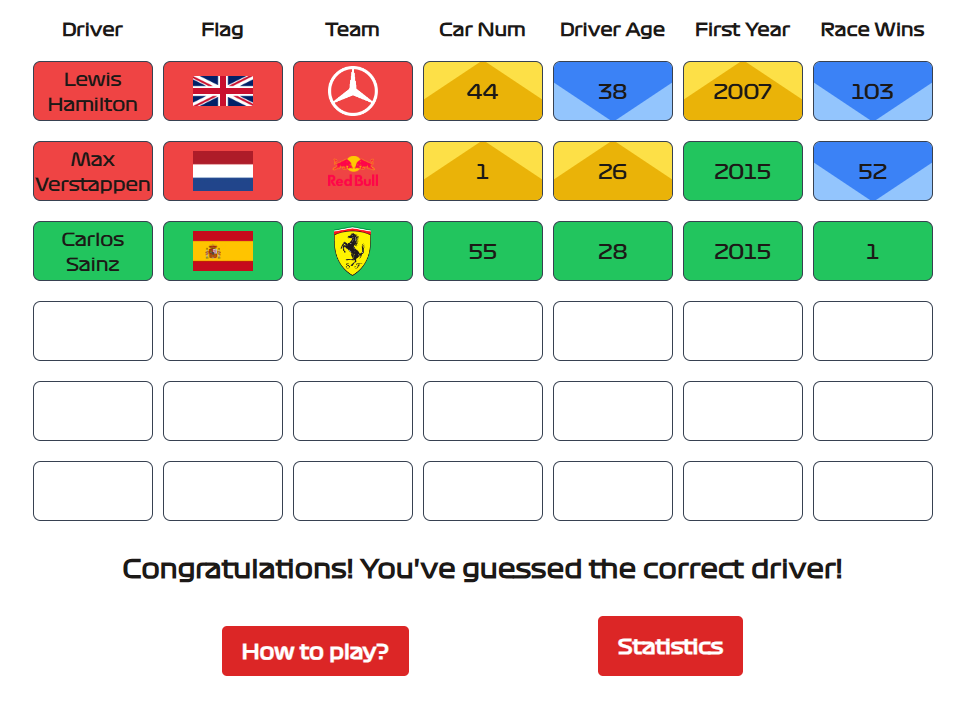
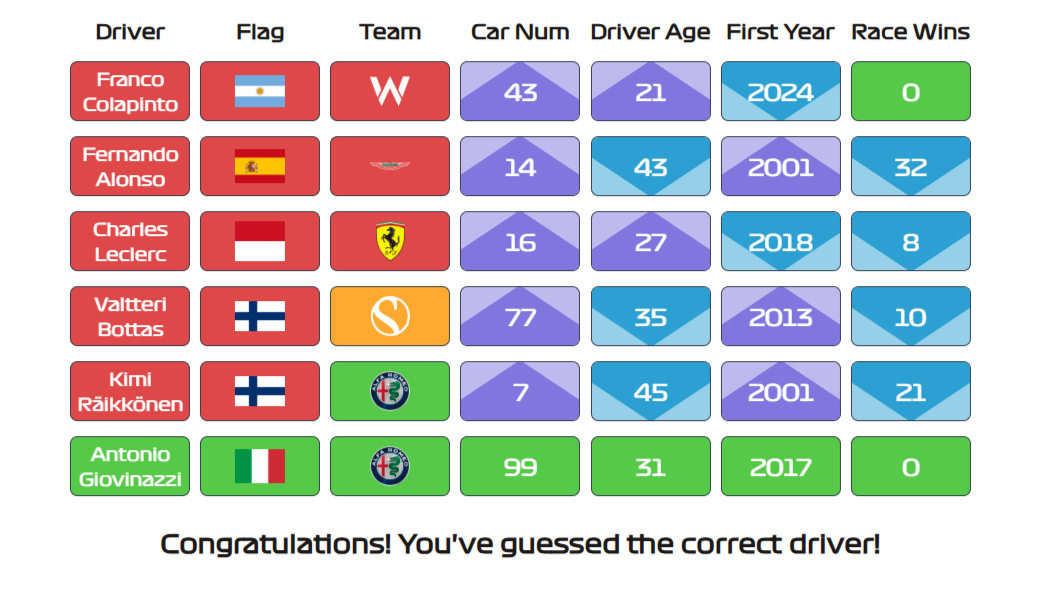
✨ Implement new functionalities

diff --git a/app/game/components/Tutorial.tsx b/app/game/components/Tutorial.tsx
@@ -14,25 +14,29 @@ const Tutorial = ({ onClose }: { onClose: () => void }) => {
         </button>
         <h2 className="text-xl font-bold mb-4">How to Play</h2>
         <p className="mb-4">
-          Guess the <b>GRIDLE</b> in six tries. Each guess must be a valid F1
-          driver name. Hit the submit button to validate.
+          Guess the driver in six tries. Each guess must be a valid F1 driver
+          name. Hit the submit button to validate.
         </p>
         <div className="grid gap-2">
           <div className="flex items-center">
-            <div className="h-8 w-12 bg-green-500 flex-shrink-0 rounded-md"></div>
+            <div className="h-8 w-12 border border-gray-700 bg-customGreen flex-shrink-0 rounded-md"></div>
             <p className="ml-4">Information is correct</p>
           </div>
           <div className="flex items-center">
-            <div className="relative border border-gray-700 flex items-center justify-center overflow-hidden text-center h-8 w-12 bg-yellow-300 rounded-md after:content-[''] after:absolute after:w-0 after:h-0 after:border-l-[48px] after:border-l-transparent after:border-r-[48px] after:border-r-transparent after:border-b-[32px] after:border-b-yellow-500"></div>
+            <div className="relative border border-gray-700 flex items-center justify-center overflow-hidden text-center h-8 w-12 bg-customPurple bg-opacity-50 rounded-md after:content-[''] after:absolute after:w-0 after:h-0 after:border-l-[48px] after:border-l-transparent after:border-r-[48px] after:border-r-transparent after:border-b-[32px] after:border-b-customPurple"></div>
             <p className="ml-4">The correct number is bigger</p>
           </div>
           <div className="flex items-center">
-            <div className="relative border border-gray-700 flex items-center justify-center overflow-hidden text-center h-8 w-12 bg-blue-300 rounded-md after:content-[''] after:absolute after:w-0 after:h-0 after:border-l-[48px] after:border-l-transparent after:border-r-[48px] after:border-r-transparent after:border-t-[32px] after:border-t-blue-500"></div>
+            <div className="relative border border-gray-700 flex items-center justify-center overflow-hidden text-center h-8 w-12 bg-customBlue bg-opacity-50 rounded-md after:content-[''] after:absolute after:w-0 after:h-0 after:border-l-[48px] after:border-l-transparent after:border-r-[48px] after:border-r-transparent after:border-t-[32px] after:border-t-customBlue"></div>
             <p className="ml-4">The correct number is smaller</p>
           </div>
           <div className="flex items-center">
-            <div className="h-8 w-12 bg-red-500 flex-shrink-0 rounded-md"></div>
+            <div className="h-8 w-12 border border-gray-700 bg-customRed flex-shrink-0 rounded-md"></div>
             <p className="ml-4">Information is incorrect</p>
+          </div>
+          <div className="flex items-center">
+            <div className="h-8 w-12 border border-gray-700 bg-customYellow flex-shrink-0 rounded-md"></div>
+            <p className="ml-4">Information is partly correct</p>
           </div>
         </div>
       </Card>

diff --git a/app/game/components/GameBoard.tsx b/app/game/components/GameBoard.tsx
@@ -23,7 +23,10 @@ const GameBoard = ({ hints, guesses }: GameBoardProps) => {
           const row = [
             { value: guess.name, hint: hints[currentRow]?.[0] || ("" as Hint) },
             { value: guess.flag, hint: hints[currentRow]?.[1] || ("" as Hint) },
-            { value: guess.team, hint: hints[currentRow]?.[2] || ("" as Hint) },
+            {
+              value: guess.teams[guess.teams.length - 1],
+              hint: hints[currentRow]?.[2] || ("" as Hint),
+            },
             {
               value: guess.carNumber,
               hint: hints[currentRow]?.[3] || ("" as Hint),
@@ -82,15 +85,17 @@ const GameBoard = ({ hints, guesses }: GameBoardProps) => {
           {row.map((cell, colIndex) => (
             <div
               key={colIndex}
-              className={`rounded-md relative md:w-24 h-12 border border-gray-700 flex items-center justify-center overflow-hidden text-center ${
+              className={`text-white rounded-md relative md:w-24 h-12 border border-gray-700 flex items-center justify-center overflow-hidden text-center ${
                 cell.hint === "correct"
-                  ? "bg-green-500"
+                  ? "bg-customGreen"
                   : cell.hint === "incorrect"
-                  ? "bg-red-500"
+                  ? "bg-customRed"
+                  : cell.hint === "partially correct"
+                  ? "bg-customYellow"
                   : cell.hint === "up"
-                  ? "bg-yellow-300 after:content-[''] after:absolute after:w-0 after:h-0 after:border-l-[75px] after:border-l-transparent after:border-r-[75px] after:border-r-transparent after:border-b-[50px] after:border-b-yellow-500"
+                  ? "bg-customPurple bg-opacity-50 after:content-[''] after:border-b-customPurple after:absolute after:w-0 after:h-0 after:border-l-[75px] after:border-l-transparent after:border-r-[75px] after:border-r-transparent after:border-b-[50px]"
                   : cell.hint === "down"
-                  ? "bg-blue-300 after:content-[''] after:absolute after:w-0 after:h-0 after:border-l-[75px] after:border-l-transparent after:border-r-[75px] after:border-r-transparent after:border-t-[50px] after:border-t-blue-500"
+                  ? "bg-customBlue bg-opacity-50 text-black after:content-[''] after:border-customBlue after:absolute after:w-0 after:h-0 after:border-l-[75px] after:border-l-transparent after:border-r-[75px] after:border-r-transparent after:border-t-[50px]"
                   : ""
               }`}
             >
@@ -126,6 +131,9 @@ const GameBoard = ({ hints, guesses }: GameBoardProps) => {
                             (cell.value as string)
                               .replace("F1", "")
                               .replace("Team", "")
+                              .replace("Racing", "")
+                              .replace("-Climax", "")
+                              .replace("-Ford", "")
                               .replace(" ", "") + ".png"
                           ).replace(" ", "")
                         }

diff --git a/app/home/components/ThankYouBubble.tsx b/app/home/components/ThankYouBubble.tsx
@@ -1,0 +1,67 @@
+import Link from "next/link";
+import { useState } from "react";
+
+export default function LocalThankYouBubble() {
+  const [isModalOpen, setModalOpen] = useState(false);
+
+  const handleOpenModal = () => setModalOpen(true);
+  const handleCloseModal = () => setModalOpen(false);
+
+  return (
+    <div className="relative">
+      {/* Bulle de remerciements */}
+      <div className="absolute bottom-4 right-4 z-10">
+        <button
+          onClick={handleOpenModal}
+          className="bg-white rounded-full p-3 shadow-lg hover:bg-gray-100"
+          title="Remerciements"
+        >
+          🙏
+        </button>
+      </div>
+
+      {/* Modal */}
+      {isModalOpen && (
+        <div className="fixed inset-0 z-50 bg-black/50 flex items-center justify-center">
+          <div className="bg-white rounded-lg shadow-lg p-8 max-w-md w-full relative">
+            {/* Bouton de fermeture */}
+            <button
+              onClick={handleCloseModal}
+              className="absolute top-3 right-3 text-gray-500 hover:text-gray-800"
+            >
+              ✕
+            </button>
+            {/* Contenu de la modal */}
+            <h2 className="text-lg font-semibold text-center mb-4">
+              Special Thanks To:
+            </h2>
+            <ul className="text-sm text-gray-600 list-disc list-inside">
+              <li>
+                Data Source:{" "}
+                <Link
+                  href="https://ergast.com/mrd/"
+                  className="hover:text-black"
+                  target="_blank"
+                  rel="noopener noreferrer"
+                >
+                  Ergast API
+                </Link>
+              </li>
+              <li>
+                Game Inspiration:{" "}
+                <Link
+                  href="https://stewardle.com/"
+                  className="hover:text-black"
+                  target="_blank"
+                  rel="noopener noreferrer"
+                >
+                  Stewardle
+                </Link>
+              </li>
+            </ul>
+          </div>
+        </div>
+      )}
+    </div>
+  );
+}

diff --git a/app/api/game/route.ts b/app/api/game/route.ts
@@ -29,7 +29,12 @@ const generateHints = (guess: Driver, target: Driver): Hints => {
   return [
     guess.name === target.name ? "correct" : "incorrect",
     guess.flag === target.flag ? "correct" : "incorrect",
-    guess.team === target.team ? "correct" : "incorrect",
+    guess.teams[guess.teams.length - 1] ===
+    target.teams[target.teams.length - 1]
+      ? "correct"
+      : target.teams.includes(guess.teams[guess.teams.length - 1])
+      ? "partially correct"
+      : "incorrect",
     guess.carNumber === target.carNumber
       ? "correct"
       : guess.carNumber > target.carNumber

diff --git a/app/layout.tsx b/app/layout.tsx
@@ -26,7 +26,12 @@ export default function RootLayout({
           <p className="text-xs text-gray-500 text-center w-full">
             © {new Date().getFullYear()}{" "}
             <span className="RaceSport">LITS</span> -{" "}
-            <Link className="hover:text-black" href="https://alexis-feron.com">
+            <Link
+              className="hover:text-black"
+              href="https://alexis-feron.com"
+              target="_blank"
+              rel="noopener noreferrer"
+            >
               Alexis Feron
             </Link>
           </p>

diff --git a/app/home/page.tsx b/app/home/page.tsx
@@ -14,6 +14,7 @@ import Link from "next/link";
 import { useEffect, useState } from "react";
 import EventCard from "../components/EventCard";
 import Race from "../types/Race";
+import ThankYouBubble from "./components/ThankYouBubble";
 
 export function Landing() {
   const [upcomingEvents, setUpcomingEvents] = useState([]);
@@ -224,6 +225,7 @@ export function Landing() {
             </div>
           </div>
         </section>
+        <ThankYouBubble />
       </main>
     </div>
   );

diff --git a/tailwind.config.js b/tailwind.config.js
@@ -14,6 +14,11 @@ module.exports = {
       colors: {
         background: "hsl(var(--background))",
         foreground: "hsl(var(--foreground))",
+        customBlue: "#2CA0D2",
+        customGreen: "#57C948",
+        customRed: "#DF4848",
+        customYellow: "#FFA930",
+        customPurple: "#8076DE",
         card: {
           DEFAULT: "hsl(var(--card))",
           foreground: "hsl(var(--card-foreground))",

diff --git a/app/types/Hint.ts b/app/types/Hint.ts
@@ -1,1 +1,7 @@
-export type Hint = "correct" | "incorrect" | "up" | "down" | "";
+export type Hint =
+  | "correct"
+  | "incorrect"
+  | "up"
+  | "down"
+  | ""
+  | "partially correct";

diff --git a/app/types/Driver.ts b/app/types/Driver.ts
@@ -1,7 +1,7 @@
 export type Driver = {
   name: string;
   flag: string; // URL du drapeau
-  team: string;
+  teams: string[];
   carNumber: number;
   age: number;
   firstYear: number;
